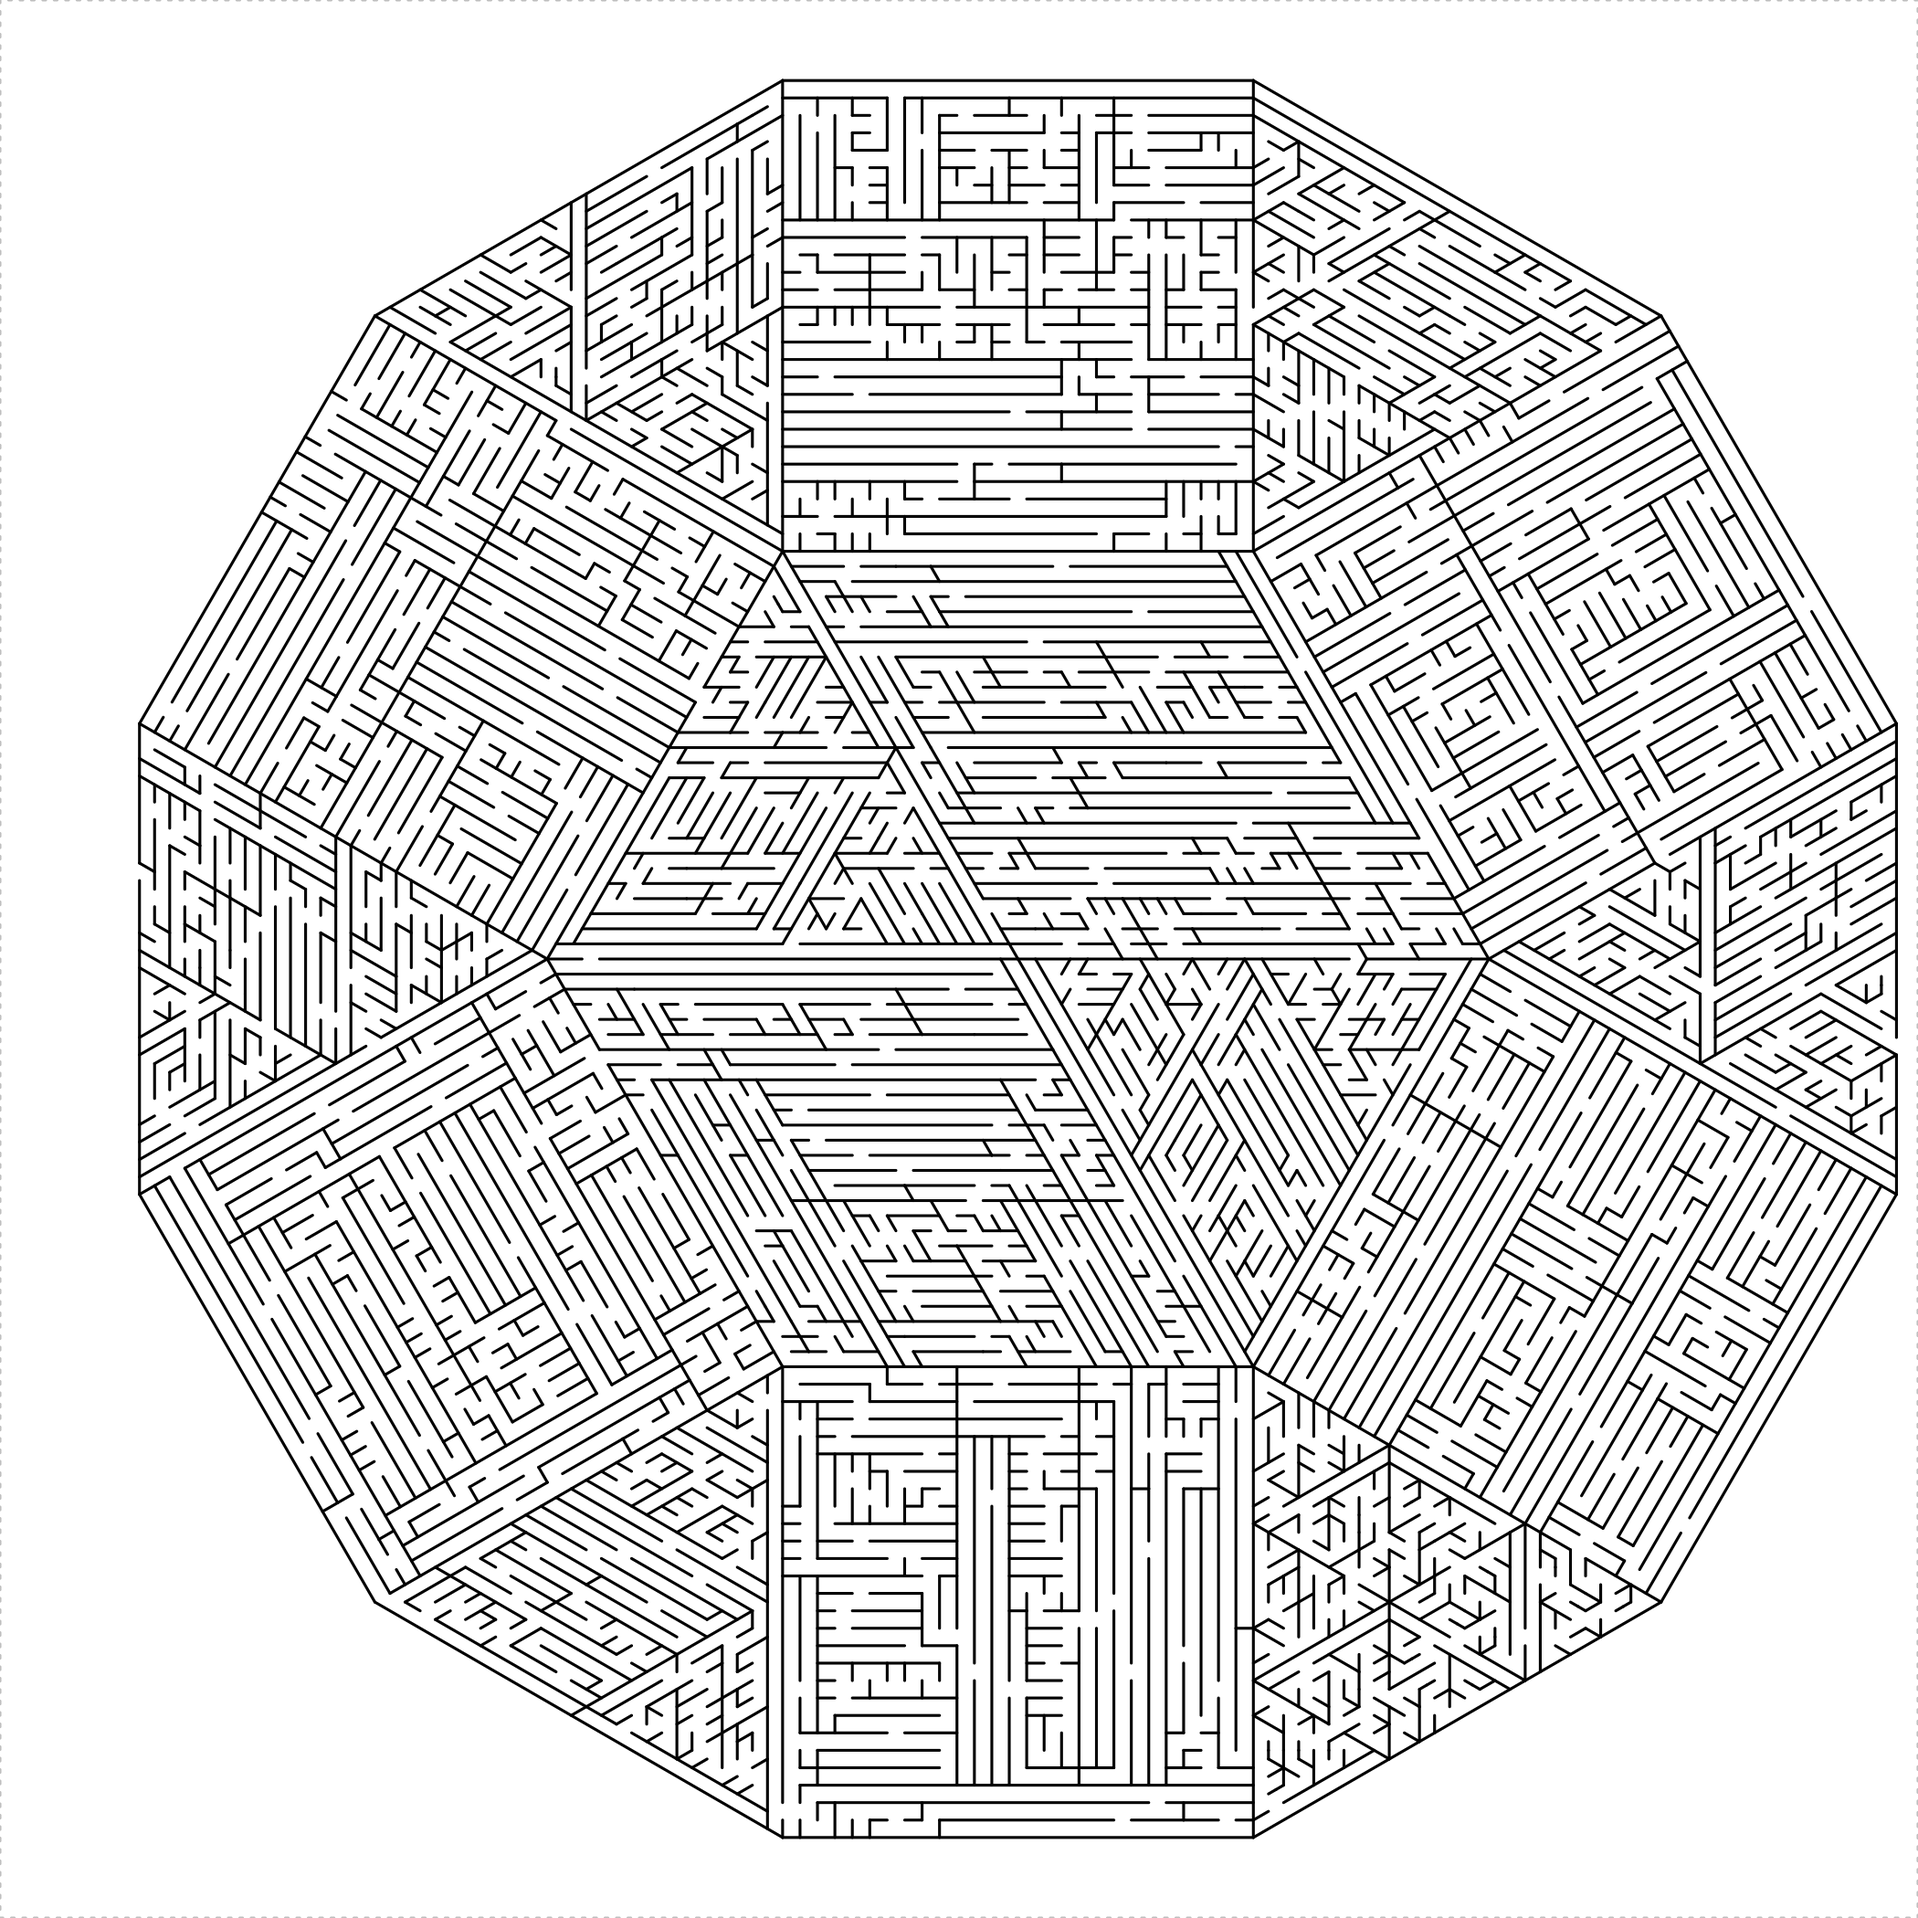
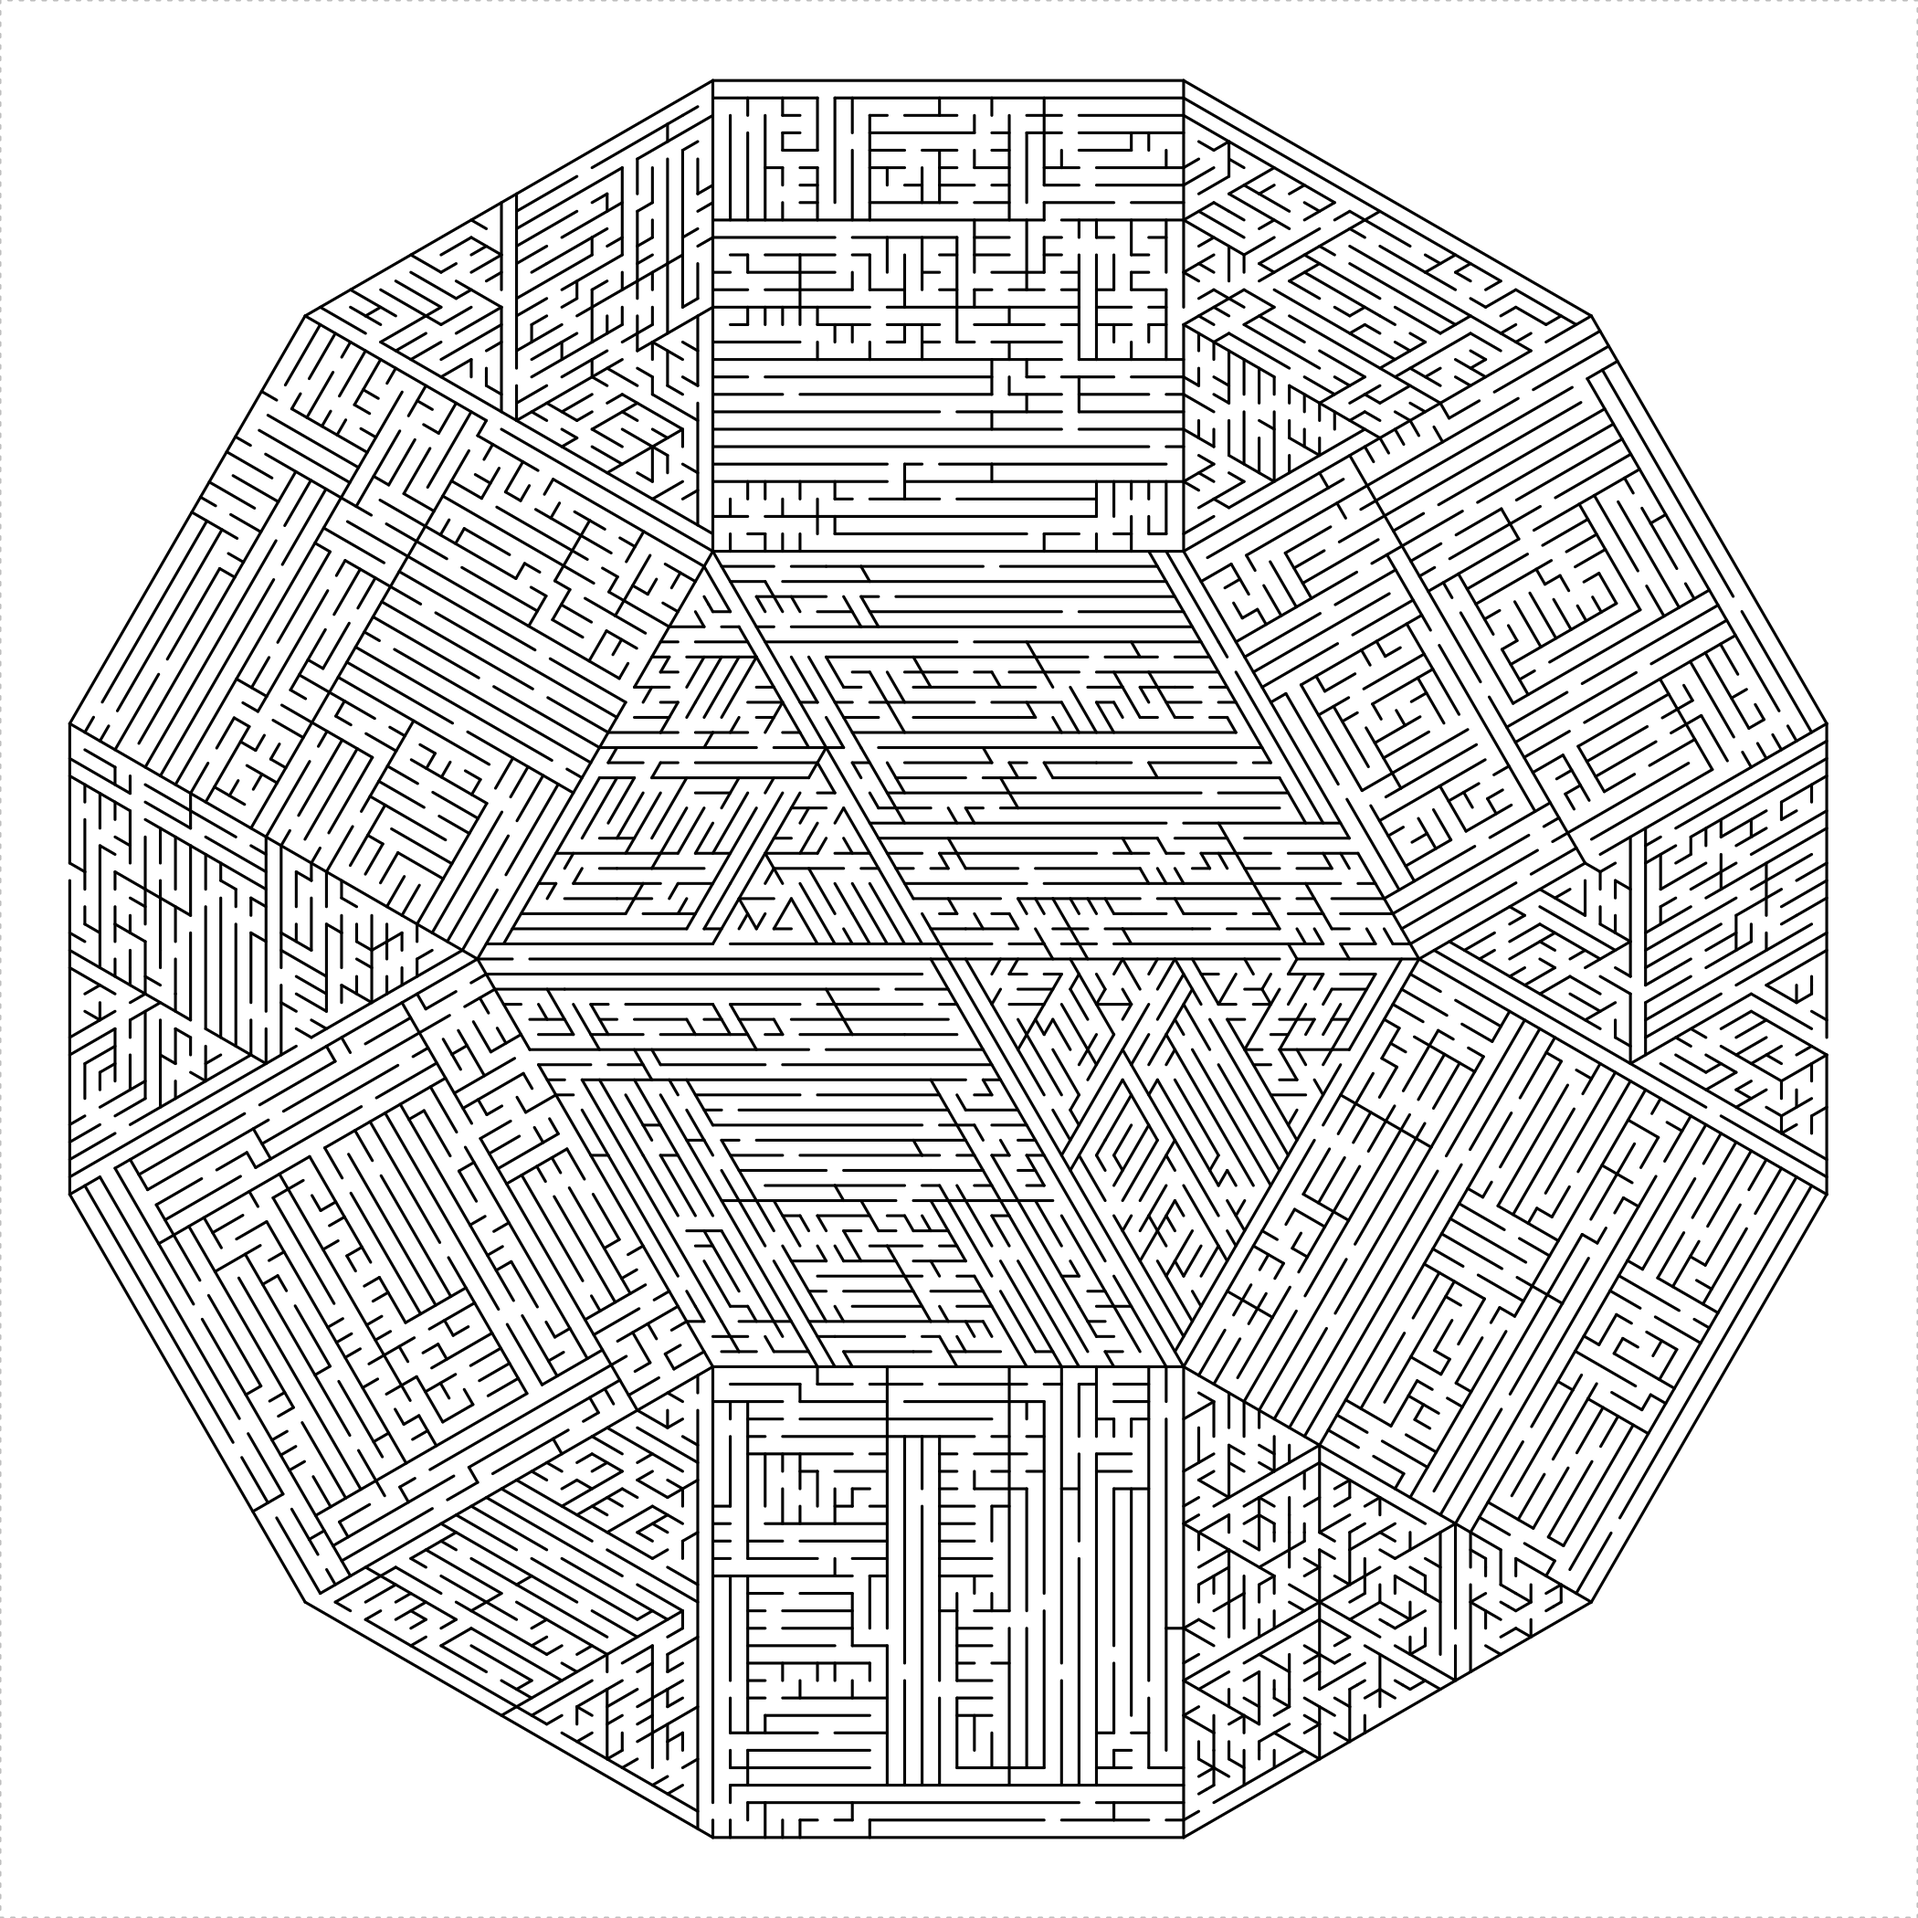
recenter dodecagon maze

Changed region(s): [[0.031, 0.031, 0.9905, 0.9595]]

diff --git a/README.md b/README.md
@@ -426,7 +426,7 @@ turtle_init(2200, 2200, mode = "clip")
 turtle_hide()
 turtle_up()
 turtle_do({
-    turtle_setpos(160, 1100)
+    turtle_setpos(80, 1100)
     turtle_setangle(0)
     dodecagon_maze(depth = log2(27), unit_len = 20, 
         draw_boundary = TRUE, boundary_holes = c(1, 
